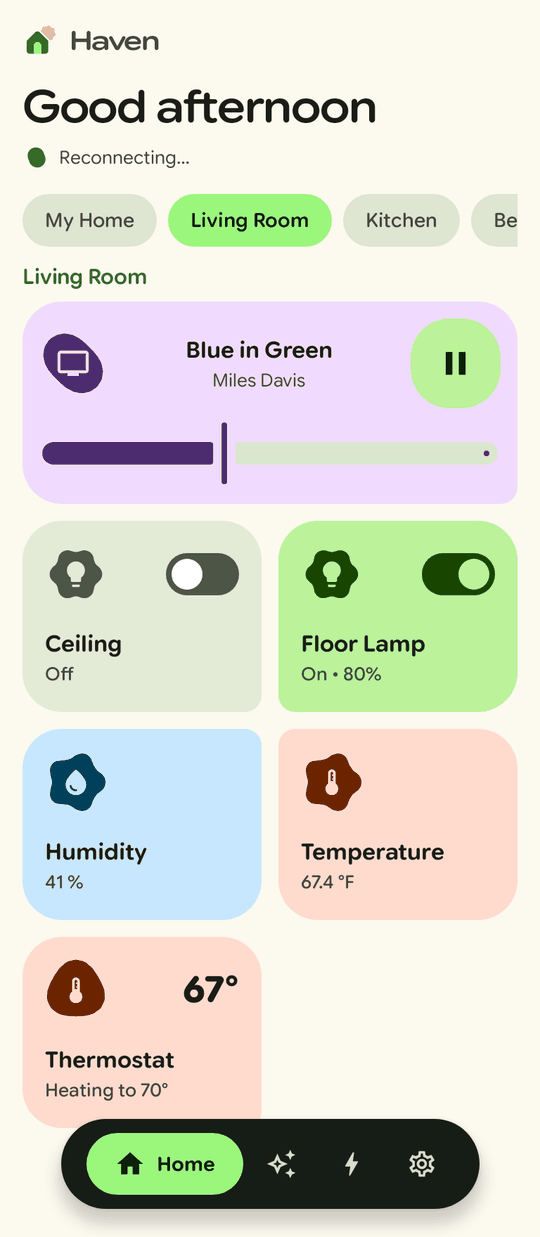
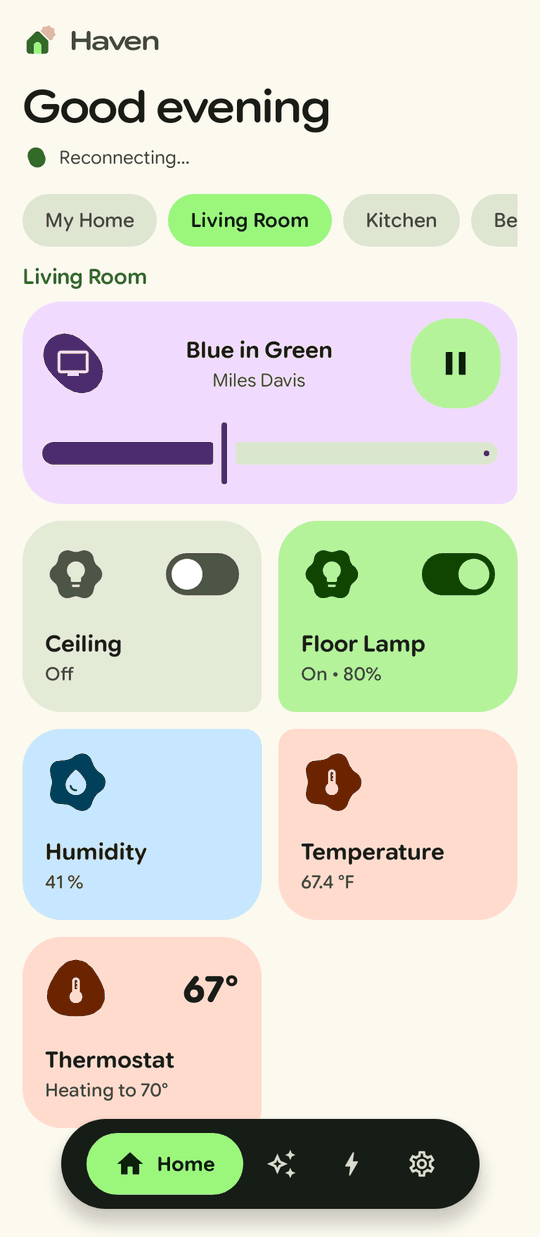
Draw the On family from the brand green ramp
The lime ramp that "on" was drawn from had been softened until it sat
two degrees of hue and two points of chroma from Leaf, the brand green:
two ramps for one color. On, and the light scheme's primary container,
now read Leaf directly and the extra ramp is gone, leaving fourteen.
The difference on screen is below what the eye can pick out.

Claude-Session: https://claude.ai/code/session_01VroSTtbFG4pfnUE38UDqkC

Changed region(s): [[0.2963, 0.0614, 0.7111, 0.1229]]

diff --git a/app/src/main/java/com/garrietta/haven/ui/theme/Palette.kt b/app/src/main/java/com/garrietta/haven/ui/theme/Palette.kt
@@ -50,7 +50,7 @@ class TonalRamp(
  * home is doing.
  */
 object Palette {
-    /** Brand green. Primary. HCT hue 140, chroma 48. */
+    /** Brand green. Primary, and the color of anything on. HCT hue 140, chroma 48. */
     val Leaf = TonalRamp(
         t0 = Color(0xFF000000),
         t4 = Color(0xFF021200),
@@ -207,38 +207,6 @@ object Palette {
         t96 = Color(0xFFEFF6E2),
         t98 = Color(0xFFF5FCE8),
         t99 = Color(0xFFF8FFEB),
-        t100 = Color(0xFFFFFFFF),
-    )
-
-    /** Soft lime. On, live, running. HCT hue 138, chroma 46. */
-    val Glow = TonalRamp(
-        t0 = Color(0xFF000000),
-        t4 = Color(0xFF031200),
-        t6 = Color(0xFF041800),
-        t8 = Color(0xFF061C00),
-        t10 = Color(0xFF082100),
-        t12 = Color(0xFF092500),
-        t15 = Color(0xFF0D2C00),
-        t17 = Color(0xFF0F3100),
-        t20 = Color(0xFF123800),
-        t22 = Color(0xFF143D00),
-        t25 = Color(0xFF184500),
-        t30 = Color(0xFF23510A),
-        t35 = Color(0xFF2F5D17),
-        t40 = Color(0xFF3B6A22),
-        t50 = Color(0xFF538339),
-        t60 = Color(0xFF6B9E50),
-        t70 = Color(0xFF85B968),
-        t80 = Color(0xFF9FD580),
-        t85 = Color(0xFFADE48D),
-        t87 = Color(0xFFB2E992),
-        t90 = Color(0xFFBBF29A),
-        t92 = Color(0xFFC0F89F),
-        t94 = Color(0xFFC6FEA4),
-        t95 = Color(0xFFCDFFAE),
-        t96 = Color(0xFFD9FFBF),
-        t98 = Color(0xFFEEFFDE),
-        t99 = Color(0xFFF7FFEC),
         t100 = Color(0xFFFFFFFF),
     )
 

diff --git a/app/src/main/java/com/garrietta/haven/ui/theme/Color.kt b/app/src/main/java/com/garrietta/haven/ui/theme/Color.kt
@@ -29,7 +29,7 @@ import androidx.compose.ui.graphics.Color
 fun havenLightColorScheme(): ColorScheme = lightColorScheme(
     primary = Palette.Leaf.t40,
     onPrimary = Color.White,
-    primaryContainer = Palette.Glow.t90,
+    primaryContainer = Palette.Leaf.t90,
     onPrimaryContainer = Palette.Leaf.t10,
     inversePrimary = Palette.Leaf.t80,
     secondary = Palette.Sage.t40,
@@ -78,7 +78,7 @@ fun havenDarkColorScheme(): ColorScheme = darkColorScheme(
     primary = Palette.Lime,
     onPrimary = Palette.Leaf.t10,
     primaryContainer = Palette.Leaf.t30,
-    onPrimaryContainer = Palette.Glow.t92,
+    onPrimaryContainer = Palette.Leaf.t92,
     inversePrimary = Palette.Leaf.t40,
     secondary = Palette.Sage.t80,
     onSecondary = Palette.Sage.t20,
@@ -191,7 +191,7 @@ private fun TonalRamp.family(isDark: Boolean): FamilyColors =
     else FamilyColors(container = t90, onContainer = t10, accent = t25, onAccent = t90)
 
 fun StateFamily.ramp(): TonalRamp = when (this) {
-    StateFamily.On -> Palette.Glow
+    StateFamily.On -> Palette.Leaf
     StateFamily.Heat -> Palette.Ember
     StateFamily.Cool -> Palette.Frost
     StateFamily.Secure -> Palette.Guard

diff --git a/app/src/main/java/com/garrietta/haven/ui/components/Expressive.kt b/app/src/main/java/com/garrietta/haven/ui/components/Expressive.kt
@@ -117,8 +117,8 @@ val LocalModalActive = compositionLocalOf { false }
 /** Stable per-entity accent color, hashed from the entity id (same idea as Relay's palettes).
  * Not a scheme role: an identity palette — each entity keeps its accent across launches. */
 private val ACCENTS = listOf(
-    Palette.Honey.t70, Palette.Leaf.t60, Palette.Dew.t60, Palette.Tune.t60,
-    Palette.Alarm.t70, Palette.Ember.t60, Palette.Glow.t70, Palette.Frost.t60,
+    Palette.Honey.t70, Palette.Sage.t60, Palette.Dew.t60, Palette.Tune.t60,
+    Palette.Alarm.t70, Palette.Ember.t60, Palette.Leaf.t70, Palette.Frost.t60,
     Palette.Volt.t70, Palette.Rain.t60, Palette.Ember.t70, Palette.Guard.t60,
 )
 

diff --git a/app/src/test/java/com/garrietta/haven/ui/theme/ThemeTest.kt b/app/src/test/java/com/garrietta/haven/ui/theme/ThemeTest.kt
@@ -86,7 +86,7 @@ class ThemeTest {
         assertEquals(light.background, light.surface)
         assertEquals(Palette.Cream.t10, light.onSurface)
         assertEquals(Palette.Leaf.t40, light.primary)
-        assertEquals(Palette.Glow.t90, light.primaryContainer)
+        assertEquals(Palette.Leaf.t90, light.primaryContainer)
         // Containers step away from the page in order.
         val steps = listOf(
             light.surfaceContainerLowest, light.background, light.surfaceContainerLow,

diff --git a/tools/palette.py b/tools/palette.py
@@ -23,13 +23,12 @@ from materialyoucolor.hct import Hct
 # name: (hue, chroma, what it is for)
 RAMPS = {
     # The scheme
-    "Leaf": (140, 48, "Brand green. Primary."),
+    "Leaf": (140, 48, "Brand green. Primary, and the color of anything on."),
     "Sage": (140, 14, "Quiet green. Secondary."),
     "Dew": (192, 24, "Cool counterpoint. Tertiary."),
     "Cream": (118, 5, "Warm paper. Backgrounds and text."),
     "Moss": (136, 11, "Sage-tinted neutral. Containers, outlines, secondary text."),
     # State families: what the home is doing
-    "Glow": (138, 46, "Soft lime. On, live, running."),
     "Ember": (40, 52, "Heating, temperature."),
     "Frost": (255, 42, "Cooling, weather."),
     "Guard": (277, 42, "Locked, armed, secure."),

diff --git a/DESIGN.md b/DESIGN.md
@@ -66,16 +66,15 @@ data/, ui/   decisions   which role an entity in a given state gets
 
 ### The palette
 
-Every color is a tone of one of fifteen ramps. A ramp is one hue and chroma in HCT, the color space Material 3 is built on, where tone is perceptual lightness. Two colors the same tone apart have the same contrast whatever their hue, which is what lets one rule serve every family.
+Every color is a tone of one of fourteen ramps. A ramp is one hue and chroma in HCT, the color space Material 3 is built on, where tone is perceptual lightness. Two colors the same tone apart have the same contrast whatever their hue, which is what lets one rule serve every family.
 
 | Ramp | Hue | Chroma | Role |
 |---|---|---|---|
-| Leaf | 140 | 48 | Brand green. Primary. |
+| Leaf | 140 | 48 | Brand green. Primary, and anything that is on. |
 | Sage | 140 | 14 | Secondary. |
 | Dew | 192 | 24 | Tertiary, the cool counterpoint. |
 | Cream | 118 | 5 | Paper: backgrounds and text. |
 | Moss | 136 | 11 | Sage-tinted neutral: containers, outlines, secondary text. |
-| Glow | 138 | 46 | On, live, running. |
 | Ember | 40 | 52 | Heating, temperature. |
 | Frost | 255 | 42 | Cooling, weather. |
 | Guard | 277 | 42 | Locked, armed, secure. |
@@ -99,7 +98,7 @@ To change a color, change its hue or chroma in `tools/palette.py` and run it. Th
 | Secondary text | Moss 30 | Moss 80 |
 | Containers, low to highest | Moss 95 / 94 / 90 / 87 | Moss 6 / 10 / 15 / 20 |
 | Primary | Leaf 40 | Lime |
-| Primary container | Glow 90 | Leaf 30 |
+| Primary container | Leaf 90 | Leaf 30 |
 
 The light containers run a little steeper than stock Material 3: chips and resting tiles sit straight on the page with no outline, so they need the separation. Dark is true black because the phone this is built for is OLED and a home app gets opened in dark rooms; its primary is the lime itself, so the things you can press glow.
 
@@ -109,7 +108,7 @@ Both schemes are fixed, so Haven looks like Haven on every phone. Wallpaper colo
 
 | Family | Means | Ramp |
 |---|---|---|
-| On | on, running, live | Glow |
+| On | on, running, live | Leaf |
 | Heat | heating; temperature readings | Ember |
 | Cool | cooling; the weather | Frost |
 | Secure | locked, closed, disarmed | Guard |
